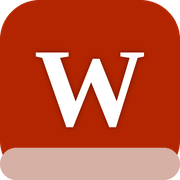
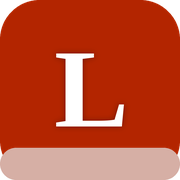
Rebrand: 'Webster Free' → 'Lexica' — the ad-free English dictionary
Drop the 'Merriam-Webster but free' positioning. The app is now its own
brand: 'Lexica — The Ad-Free Dictionary'. The marketing copy no longer
leads with Merriam-Webster; the only remaining MW mentions are honest
data-source attribution badges on entries (legally required when serving
MW API data) and a small-print copyright line in the footer.

- Renamed app, brand mark, hero copy, footer copy, empty-state copy
- Updated metadata.title / openGraph / twitter (Lexica branding)
- Regenerated favicon with serif 'L' instead of 'W' (perfectly centered
  via ink-bounds + symmetric soft shadow)
- Updated README to reflect the new brand

Changed region(s): [[0.1944, 0.2778, 0.8056, 0.7222]]

diff --git a/src/app/page.tsx b/src/app/page.tsx
@@ -292,7 +292,7 @@ export default function Home() {
               </span>
               <span className="flex flex-col leading-none">
                 <span className="font-serif text-xl tracking-tight text-[#1a1a1a]">
-                  Webster Free
+                  Lexica
                 </span>
                 <span className="text-[10px] uppercase tracking-[0.18em] text-stone-500">
                   Ad-Free Dictionary
@@ -326,9 +326,9 @@ export default function Home() {
             </h1>
             <p className="mt-4 text-stone-600 text-base sm:text-lg leading-relaxed">
               Look up any English word. Real definitions, IPA pronunciations,
-              etymology, synonyms, and antonyms from Merriam-Webster (with
-              Wiktionary fallback) — plus a daily featured word. No ads, no
-              banners, no interruptions.
+              etymology, synonyms, antonyms, and a daily featured word — all
+              in a clean, ad-free reader. No banners, no tracking, no
+              interruptions.
             </p>
           </div>
 
@@ -550,13 +550,12 @@ export default function Home() {
               <BookOpen className="h-3.5 w-3.5" />
             </span>
             <span>
-              <span className="font-serif text-stone-700">Webster Free</span> — an ad-free
-              reader for the Merriam-Webster Collegiate Dictionary and the
-              English Wiktionary.
+              <span className="font-serif text-stone-700">Lexica</span> — the
+              ad-free English dictionary.
             </span>
           </div>
           <span className="text-xs">
-            No ads. No tracking. No popups. MW data © Merriam-Webster Inc.; Wiktionary data © Wiktionary contributors (CC BY-SA).
+            No ads. No tracking. No popups. Dictionary data © Merriam-Webster Inc. and Wiktionary contributors (CC BY-SA).
           </span>
         </div>
       </footer>
@@ -960,9 +959,8 @@ function EmptyState({ onPick }: { onPick: (word: string) => void }) {
       </div>
       <h2 className="font-serif text-2xl text-stone-800">Try a word to begin</h2>
       <p className="mt-2 text-stone-600 max-w-md mx-auto">
-        Every lookup pulls real entries from the Merriam-Webster Collegiate
-        Dictionary (with Wiktionary as a fallback for words MW doesn't cover).
-        Pick one of these to start:
+        Every lookup pulls real entries from authoritative English
+        dictionaries. Pick one of these to start:
       </p>
       <div className="mt-6 flex flex-wrap gap-2 justify-center max-w-xl mx-auto">
         {suggestions.map((w) => (

diff --git a/src/app/layout.tsx b/src/app/layout.tsx
@@ -20,9 +20,9 @@ const playfair = Playfair_Display({
 });
 
 export const metadata: Metadata = {
-  title: "Webster Free — Ad-Free Dictionary",
+  title: "Lexica — The Ad-Free Dictionary",
   description:
-    "A clean, ad-free, Merriam-Webster-style dictionary. Look up definitions, etymology, synonyms, antonyms, and more — no ads, no tracking, no clutter.",
+    "A clean, ad-free English dictionary. Look up definitions, IPA pronunciations, etymology, synonyms, antonyms, and a daily featured word — no ads, no tracking, no clutter.",
   keywords: [
     "dictionary",
     "ad-free",
@@ -31,7 +31,7 @@ export const metadata: Metadata = {
     "synonyms",
     "word of the day",
   ],
-  authors: [{ name: "Webster Free" }],
+  authors: [{ name: "Lexica" }],
   icons: {
     icon: [
       { url: "/favicon.ico", sizes: "any" },
@@ -47,23 +47,23 @@ export const metadata: Metadata = {
     shortcut: ["/favicon.ico"],
   },
   openGraph: {
-    title: "Webster Free — Ad-Free Dictionary",
-    description: "A clean, ad-free Merriam-Webster-style dictionary.",
-    siteName: "Webster Free",
+    title: "Lexica — The Ad-Free Dictionary",
+    description: "A clean, ad-free English dictionary.",
+    siteName: "Lexica",
     type: "website",
     images: [
       {
         url: "/og-image.png",
         width: 1200,
         height: 630,
-        alt: "Webster Free — Ad-Free Dictionary",
+        alt: "Lexica — The Ad-Free Dictionary",
       },
     ],
   },
   twitter: {
     card: "summary_large_image",
-    title: "Webster Free — Ad-Free Dictionary",
-    description: "A clean, ad-free Merriam-Webster-style dictionary.",
+    title: "Lexica — The Ad-Free Dictionary",
+    description: "A clean, ad-free English dictionary.",
     images: ["/og-image.png"],
   },
 };

diff --git a/scripts/generate_favicon.py b/scripts/generate_favicon.py
@@ -1,7 +1,7 @@
 #!/usr/bin/env python3
-"""Generate the Webster Free favicon in multiple sizes and formats.
+"""Generate the Lexica favicon in multiple sizes and formats.
 
-Design: a red rounded square (#b32500) with a white serif "W" centered,
+Design: a red rounded square (#b32500) with a white serif "L" centered,
 matching the brand identity of the site.
 """
 
@@ -47,7 +47,7 @@ def render_icon(size: int) -> Image.Image:
     )
     img.paste(overlay, (0, big - shade_h), mask)
 
-    # Render the "W" glyph. Font size is ~62% of icon size.
+    # Render the "L" glyph. Font size is ~62% of icon size.
     font_size = int(big * 0.62)
     font = ImageFont.truetype(FONT_PATH, font_size)
 
@@ -58,11 +58,11 @@ def render_icon(size: int) -> Image.Image:
     # getbbox(), then translate it into the centered position.
     scratch = Image.new("RGBA", (big, big), (0, 0, 0, 0))
     sdraw = ImageDraw.Draw(scratch)
-    sdraw.text((0, 0), "W", font=font, fill=WHITE)
+    sdraw.text((0, 0), "L", font=font, fill=WHITE)
     ink_bbox = scratch.getbbox()
     if ink_bbox is None:
         # Empty glyph — fall back to textbbox
-        bbox = draw.textbbox((0, 0), "W", font=font)
+        bbox = draw.textbbox((0, 0), "L", font=font)
         ink_w = bbox[2] - bbox[0]
         ink_h = bbox[3] - bbox[1]
         ink_x = (big - ink_w) // 2 - bbox[0]
@@ -81,7 +81,7 @@ def render_icon(size: int) -> Image.Image:
     shadow_layer = Image.new("RGBA", (big, big), (0, 0, 0, 0))
     ImageDraw.Draw(shadow_layer).text(
         (ink_x, ink_y),
-        "W",
+        "L",
         font=font,
         fill=(0, 0, 0, 90),
     )
@@ -95,7 +95,7 @@ def render_icon(size: int) -> Image.Image:
     draw = ImageDraw.Draw(img)
 
     # Main glyph
-    draw.text((ink_x, ink_y), "W", font=font, fill=WHITE)
+    draw.text((ink_x, ink_y), "L", font=font, fill=WHITE)
 
     # Downsample to target size with high-quality LANCZOS filter.
     return img.resize((size, size), Image.LANCZOS)
@@ -132,13 +132,13 @@ def main():
     og = Image.new("RGB", (1200, 630), RED)
     draw = ImageDraw.Draw(og)
     font = ImageFont.truetype(FONT_PATH, 460)
-    bbox = draw.textbbox((0, 0), "W", font=font)
+    bbox = draw.textbbox((0, 0), "L", font=font)
     tw = bbox[2] - bbox[0]
     th = bbox[3] - bbox[1]
     tx = (1200 - tw) // 2 - bbox[0]
     ty = (630 - th) // 2 - bbox[1]
-    draw.text((tx + 4, ty + 4), "W", font=font, fill=(0, 0, 0))
-    draw.text((tx, ty), "W", font=font, fill=WHITE)
+    draw.text((tx + 4, ty + 4), "L", font=font, fill=(0, 0, 0))
+    draw.text((tx, ty), "L", font=font, fill=WHITE)
     og.save(OUT_DIR / "og-image.png")
     print("  + og-image.png (1200x630 social preview)")
 

diff --git a/README.md b/README.md
@@ -1,23 +1,23 @@
-# Webster Free
+# Lexica
 
-A clean, ad-free, Merriam-Webster-style dictionary web app. No ads, no banners, no popups, no tracking.
+**The Ad-Free Dictionary.**
 
-Look up any English word and get real dictionary data — definitions, IPA pronunciations (with real audio), etymology, synonyms, antonyms, and a daily featured word — all in a clean, distraction-free UI.
+A clean, ad-free English dictionary web app. No ads, no banners, no popups, no tracking. Look up any English word and get real definitions, IPA pronunciations (with real audio), etymology, synonyms, antonyms, and a daily featured word — all in a distraction-free reader.
 
 ## Source priority chain
 
 Every lookup tries three sources in order, with full transparency about which one supplied the data:
 
-1. **Merriam-Webster Collegiate Dictionary + Thesaurus API** (primary) — real definitions, real audio pronunciations, real per-sense synonyms/antonyms. Marked in the UI with a green *"Source: Merriam-Webster"* badge.
-2. **English Wiktionary** (fallback) — for words MW doesn't cover. Uses the official Wikimedia Action API (no auth, no rate limit, freely licensed CC BY-SA). Marked with a green *"Source: Wiktionary"* badge.
-3. **AI fallback** (last resort) — only when both upstream APIs are unreachable due to network errors. Never used for genuinely missing words, so the app never silently hallucinates a definition for a misspelled word. Marked with a neutral *"Source: AI fallback"* badge.
+1. **Merriam-Webster Collegiate Dictionary + Thesaurus API** (primary) — real definitions, real audio pronunciations, real per-sense synonyms/antonyms. Surfaced in the UI with a green *"Source: Merriam-Webster"* badge.
+2. **English Wiktionary** (fallback) — for words the primary source doesn't cover. Uses the official Wikimedia Action API (no auth, no rate limit, freely licensed CC BY-SA). Surfaced with a green *"Source: Wiktionary"* badge.
+3. **AI fallback** (last resort) — only when both upstream APIs are unreachable due to network errors. Never used for genuinely missing words, so the app never silently hallucinates a definition for a misspelled word. Surfaced with a neutral *"Source: AI fallback"* badge.
 
 ## Features
 
 - **Hero search bar** with Enter-to-search and a pill "Look Up" button
 - **Word of the Day** card — deterministically rotated by day-of-year, cached 24h in localStorage
 - **Full dictionary entry view** with:
-  - Title-case word + IPA phonetic + clickable speaker button (real MW or Wikimedia Commons audio)
+  - Title-case word + IPA phonetic + clickable speaker button (real audio from the source)
   - Part-of-speech badge, origin badge, "First known use" badge
   - Numbered definitions, each with an example sentence
   - Etymology section
@@ -25,7 +25,7 @@ Every lookup tries three sources in order, with full transparency about which on
 - **Recent searches** strip persisted in localStorage (last 8, with clear button)
 - **Empty state** with 8 curated interesting starter words
 - **Loading skeletons** and **error states** with "Did you mean…?" suggestions for misspellings
-- **Sticky backdrop-blur header** with red Merriam-Webster-style brand mark
+- **Sticky backdrop-blur header** with the brand mark
 - **Sticky footer** with proper licensing attribution
 - **Framer Motion** page transitions
 - **Playfair Display** serif for headlines, Geist Sans for body
@@ -78,6 +78,16 @@ npm run dev
 
 Open <http://localhost:3000> in your browser.
 
+### 4. (Optional) Regenerate the favicon
+
+The favicon (red rounded square with a serif "L") is generated from a Python script:
+
+```bash
+python3 scripts/generate_favicon.py
+```
+
+This regenerates `public/favicon.ico` (multi-resolution), `public/favicon-{16,32,48,64,128,256}.png`, `public/apple-touch-icon.png` (180×180 for iOS), and `public/og-image.png` (1200×630 social preview card).
+
 ## Project structure
 
 ```
@@ -87,7 +97,7 @@ src/
 │   │   ├── dictionary/route.ts       # GET /api/dictionary?word=...
 │   │   └── word-of-the-day/route.ts  # GET /api/word-of-the-day
 │   ├── globals.css
-│   ├── layout.tsx                    # Root layout, fonts
+│   ├── layout.tsx                    # Root layout, fonts, metadata
 │   └── page.tsx                      # The whole dictionary UI
 ├── components/ui/                    # shadcn/ui component library
 ├── lib/
